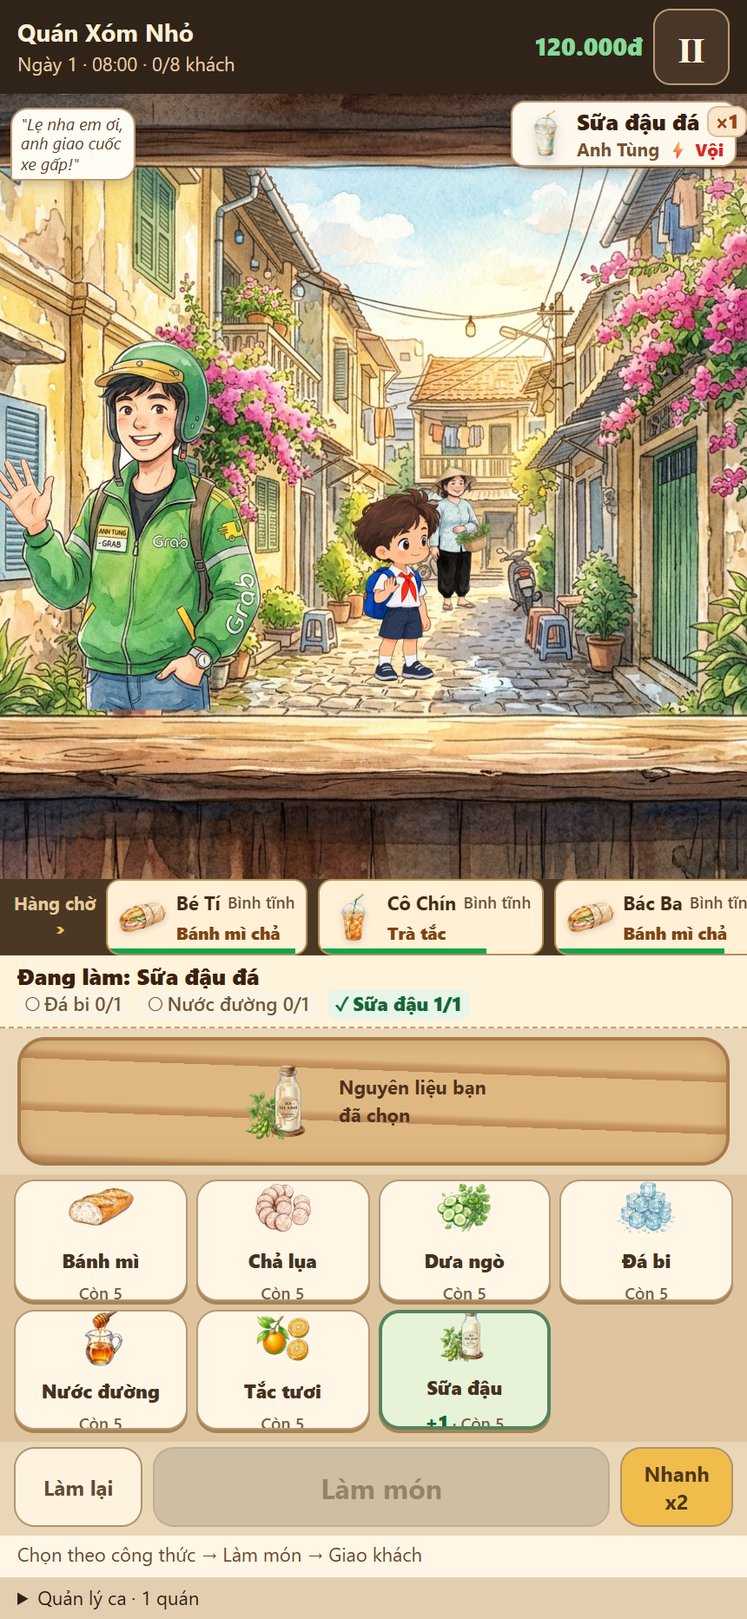
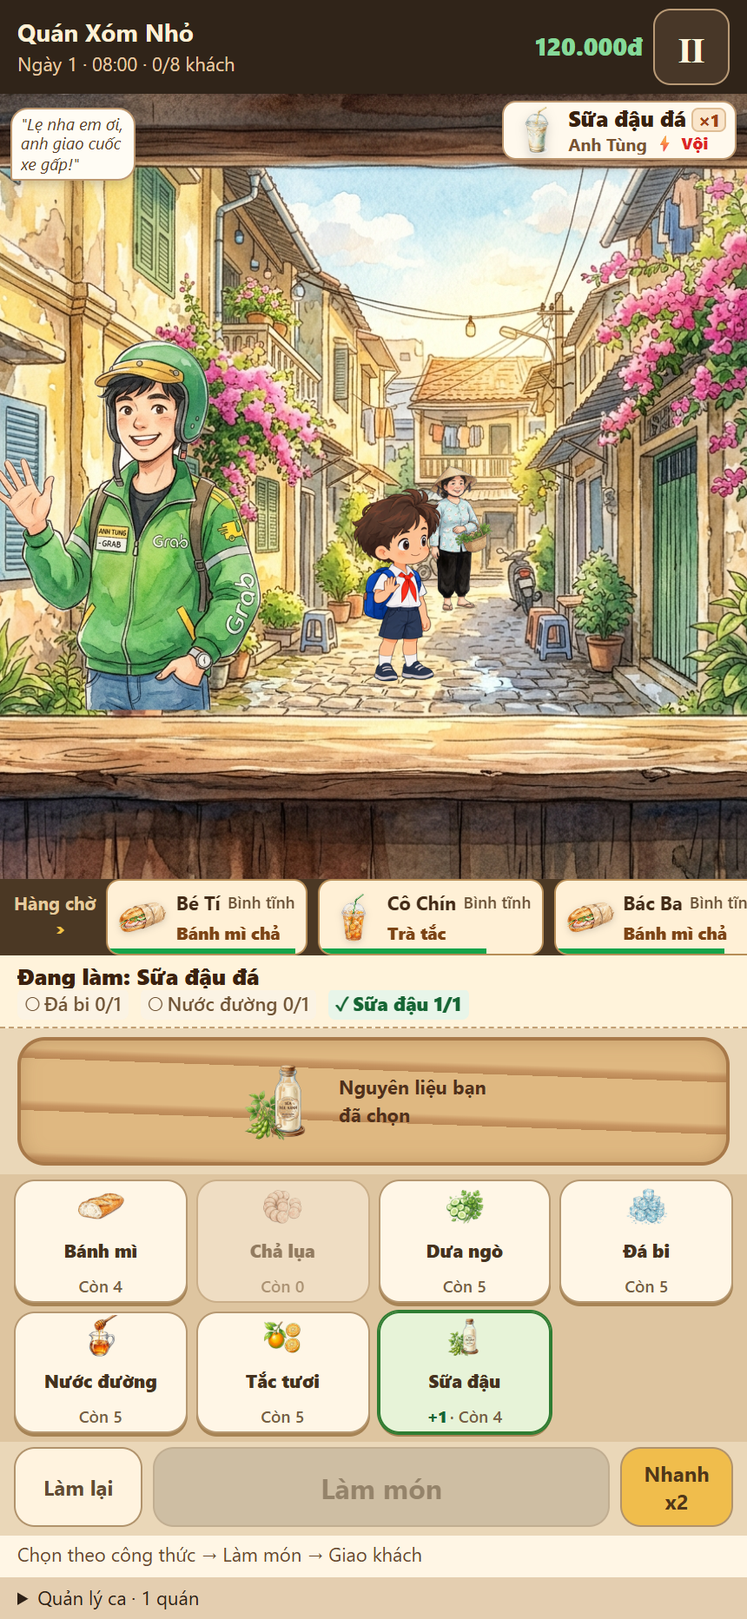
fix(mobile): elevate child counter standing, unclip stock line, wrap order ticket, and accurate handoff description

Changed region(s): [[0.0302, 0.7157, 0.7558, 0.9024], [0.6651, 0.0622, 1.0, 0.1245], [0.7558, 0.7157, 0.9674, 0.809]]

diff --git a/game/style.css b/game/style.css
@@ -2645,17 +2645,17 @@ button:focus-visible, [role=button]:focus-visible { outline: 3px solid #0e7490; 
 .play-stage { position:absolute; inset:0; width:100%; height:100%; pointer-events:none; }
 .customer-speech-bubble { position:absolute; z-index:25; left:6px; top:8px; max-width:72px; background:#fffcf4; border:1.5px solid #bd976e; border-radius:10px 10px 10px 2px; padding:3px 5px; font-size:9.5px; font-style:italic; color:#583d24; line-height:1.2; box-shadow:0 2px 6px rgba(36,26,25,0.22); pointer-events:none; }
 .customer-speech-bubble span { display:-webkit-box; -webkit-line-clamp:3; -webkit-box-orient:vertical; overflow:hidden; }
-.play-speech, .customer-order-callout { position:absolute; z-index:30; right:6px; top:4px; max-width:130px; background:#fff9ed; border:1.5px solid #bd976e; border-radius:8px; padding:2px 5px; box-shadow:0 3px 8px rgba(36,26,25,0.25); display:flex; align-items:center; gap:4px; }
+.play-speech, .customer-order-callout { position:absolute; z-index:30; right:6px; top:4px; max-width:138px; background:#fff9ed; border:1.5px solid #bd976e; border-radius:8px; padding:2px 5px; box-shadow:0 3px 8px rgba(36,26,25,0.25); display:flex; align-items:center; gap:4px; }
 .customer-order-callout.is-empty { padding:6px 10px; text-align:center; color:#795b3d; font-style:italic; font-size:11px; }
 .ticket-dish-img { width:28px; height:28px; object-fit:contain; flex-shrink:0; filter:drop-shadow(0 2px 3px rgba(0,0,0,0.18)); }
 .ticket-dish-meta { flex:1; min-width:0; display:flex; flex-direction:column; justify-content:center; gap:1px; }
-.ticket-dish-title-row { display:flex; align-items:center; gap:4px; }
-.ticket-dish-name { font-size:13px; font-weight:800; color:#38210f; line-height:1.15; white-space:nowrap; overflow:visible; }
-.ticket-qty-pill { font-size:11px; font-weight:800; color:#9c4115; background:#fae6cb; border:1px solid #dfbe96; border-radius:6px; padding:0 4px; flex-shrink:0; }
-.ticket-special-badge { display:inline-block; font-size:10px; font-weight:800; color:#b44921; background:#fdf2db; border:1px solid #eab366; border-radius:4px; padding:0 4px; white-space:nowrap; }
-.ticket-cust-sub { display:flex; align-items:center; gap:4px; font-size:10.5px; color:#785333; line-height:1.2; }
+.ticket-dish-title-row { display:flex; align-items:baseline; gap:3px; flex-wrap:wrap; }
+.ticket-dish-name { font-size:12.5px; font-weight:800; color:#38210f; line-height:1.15; white-space:normal; word-break:break-word; }
+.ticket-qty-pill { font-size:10px; font-weight:800; color:#9c4115; background:#fae6cb; border:1px solid #dfbe96; border-radius:4px; padding:0 3px; flex-shrink:0; line-height:1.2; }
+.ticket-special-badge { display:inline-block; font-size:9.5px; font-weight:800; color:#b44921; background:#fdf2db; border:1px solid #eab366; border-radius:4px; padding:0 3px; white-space:nowrap; }
+.ticket-cust-sub { display:flex; align-items:center; gap:4px; font-size:10px; color:#785333; line-height:1.2; }
 .ticket-cust-name { font-weight:700; white-space:nowrap; overflow:hidden; text-overflow:ellipsis; }
-.ticket-rush-tag { color:#dc2626; font-weight:800; font-size:10px; white-space:nowrap; }
+.ticket-rush-tag { color:#dc2626; font-weight:800; font-size:9.5px; white-space:nowrap; }
 .ticket-empty-row { font-size:11px; color:#83674b; font-style:italic; padding:2px 0; }
 .play-pause-overlay { position:absolute; inset:0; background:#30241990; z-index:50; color:#fff; display:grid; place-items:center; font-size:20px; font-weight:800; }
 .play-queue { position:relative; display:flex; align-items:center; gap:6px; background:#4b3824; padding:0 8px; overflow-x:auto; color:#f6e1b9; font-size:11px; scrollbar-width:thin; }
@@ -2683,8 +2683,8 @@ button:focus-visible, [role=button]:focus-visible { outline: 3px solid #0e7490; 
 .receipt-mark { font-style:normal; font-weight:900; font-size:11px; }
 .cooking-board {margin:5px 10px;position:relative;border:2px solid #a87949;border-radius:16px;background:repeating-linear-gradient(2deg,#ba8855 0px,#c79562 3px,#dfb881 6px,#dfb881 30px);box-shadow:inset 0 0 10px #70482340;display:flex;align-items:center;justify-content:center;gap:10px;overflow:hidden;color:#51301b;font-size:12px}
 .cooking-board>b{font-size:11px;max-width:100px}.selected-art{display:flex;align-items:center;justify-content:center;gap:2px;max-width:65%;height:63px}.selected-art img{width:50px;height:58px;object-fit:contain;animation:ingredientDrop .2s ease-out}.finished-dish{height:62px;width:100px;object-fit:contain;animation:ingredientDrop .25s ease-out}.is-cooking .selected-art {animation:cookSway .5s ease-in-out infinite alternate}.cook-progress{position:absolute;bottom:0;left:0;height:4px;width:100%;background:#f4d5a2}.cook-progress i{display:block;height:100%;background:#a65020}
-.ingredient-tray {display:grid;grid-template-columns:repeat(4,minmax(0,1fr));grid-template-rows:repeat(2,minmax(0,1fr));gap:5px;padding:3px 8px 7px;background:#dec5a0}
-.ingredient-button {padding:3px 2px;display:flex;flex-direction:column;align-items:center;justify-content:center;min-width:44px;min-height:44px;border:1px solid #b69871;border-radius:12px;background:#fff6e6;box-shadow:0 2px 0 #a78455;color:#45321f;overflow:hidden}.ingredient-button img{width:52px;height:36px;object-fit:contain;pointer-events:none}.ingredient-button b{font-size:11px;line-height:1.3}.ingredient-button small{font-size:9.5px;line-height:1.15;color:#765e43;display:block;max-width:100%;text-align:center}.ing-stock-line .ing-picked{color:#166534;font-weight:800}.ingredient-button.picked{border:2px solid #54845d;background:#e7f3d8}.ingredient-button:active{transform:translateY(2px)}.ingredient-button:disabled{opacity:.5;box-shadow:none}.egg-placeholder{height:36px;display:grid;place-items:center;font-size:12px}
+.ingredient-tray {display:grid;grid-template-columns:repeat(4,minmax(0,1fr));grid-template-rows:repeat(2,minmax(0,1fr));gap:5px;padding:3px 8px 5px;background:#dec5a0}
+.ingredient-button {padding:2px 2px;display:flex;flex-direction:column;align-items:center;justify-content:center;min-width:44px;min-height:44px;border:1.5px solid #b69871;border-radius:12px;background:#fff6e6;box-shadow:0 2px 0 #a78455;color:#45321f;overflow:hidden}.ingredient-button img{width:44px;height:25px;object-fit:contain;pointer-events:none}.ingredient-button b{font-size:10.5px;line-height:1.15;margin:1px 0}.ingredient-button small{font-size:9.5px;height:14px;min-height:14px;line-height:14px;color:#765e43;display:flex;align-items:center;justify-content:center;gap:2px;max-width:100%;text-align:center;white-space:nowrap}.ing-stock-line .ing-picked{color:#166534;font-weight:800;font-size:9.5px;line-height:14px}.ingredient-button.picked{border-color:#2e7d32;outline:1px solid #2e7d32;background:#e7f3d8}.ingredient-button:active{transform:translateY(2px)}.ingredient-button:disabled{opacity:.5;box-shadow:none}.egg-placeholder{height:25px;display:grid;place-items:center;font-size:11px}
 .cook-actions{display:flex;gap:6px;padding:3px 8px 5px;background:#ead7b8}.cook-actions button{border-radius:12px;border:1px solid #b1936c;font-weight:750;font-size:12px;min-width:54px;min-height:44px}.cook-main{flex:1;background:#b44921;color:white;font-size:16px!important;border-color:#7e2d17!important;box-shadow:0 3px 0 #772e19}.cook-main.ready{background:#2d8157;border-color:#1d5139!important;box-shadow:0 3px 0 #1d5139}.cook-main:disabled{background:#bfb098;border-color:#ab987d!important;color:#665640;box-shadow:none}.undo-button{background:#fff3df;color:#624b32}.boost-button{background:#f0bd4c;color:#513719;max-width:65px}.cook-actions button:disabled{opacity:.65}
 .play-status{font-size:11px;padding:3px 10px;background:#fff6e5;color:#68472c;white-space:nowrap;overflow:hidden;text-overflow:ellipsis}.play-options{font-size:11px;background:#e4ceb0;position:relative}.play-options summary{height:24px;padding:4px 10px;cursor:pointer}.play-options[open]>div{position:absolute;bottom:24px;right:0;left:0;background:#fff4de;z-index:90;padding:10px;box-shadow:0 -4px 18px #382b1740;display:grid;gap:8px}.play-options button{background:#f5e2c3;border:1px solid #b59770;border-radius:10px;min-height:44px}.play-options small{font-size:12px}
 .morning-dashboard,.end-day {padding:16px;max-width:100%}.morning-hero{height:145px;border-radius:20px;background:linear-gradient(0deg,#392811a0,#39281105),url('../assets/environment/alley_counter_clean.jpg') center 47%/cover;color:#fff3da;padding:20px;display:flex;flex-direction:column;justify-content:flex-end}.morning-hero h2{font-size:26px;margin:0}.morning-hero span{font-weight:750;text-shadow:0 2px 2px #333}.day-stats{display:grid;grid-template-columns:repeat(3,minmax(0,1fr));gap:6px;margin:12px 0}.day-stats>div{padding:12px 5px;border:1px solid #cfb792;border-radius:13px;background:#fff5e2;text-align:center}.day-stats b{font-size:18px;color:#694526;display:block;overflow-wrap:anywhere}.day-stats small{font-size:11px;color:#806a50;display:block}.forecast-card{padding:12px;background:#eee1c6;border-radius:13px;margin:12px 0}.forecast-card p{font-size:13px;margin:5px 0 0}.morning-help,.morning-details{font-size:13px;color:#74573c}.morning-details{margin-top:12px}.morning-details summary,.end-day summary{min-height:44px;padding:12px;background:#f0e1c7;border-radius:10px;cursor:pointer}.upgrade-grid{display:grid;grid-template-columns:1fr 1fr;gap:8px;margin-bottom:10px}.upgrade-grid button{min-height:100px;border:1px solid #cbb593;border-radius:14px;background:#fff4e0;padding:10px;text-align:left;color:#61442b}.upgrade-grid b,.upgrade-grid span,.upgrade-grid small{display:block}.upgrade-grid b{font-size:13px}.upgrade-grid span{font-size:12px;color:#a54c20;margin:4px 0}.upgrade-grid small{font-size:11px;line-height:1.3}.morning-dashboard .btn-secondary{margin:6px 0;min-height:44px;font-size:13px;padding:12px}.morning-dashboard h3,.end-day h3{font-size:15px;margin:15px 0 8px}.end-day h2{font-size:23px;margin:5px 0 12px}.end-day-badge{color:#98713c;font-size:13px;font-weight:800}.feedback-cards{display:grid;gap:8px}.feedback-cards>div{border-left:3px solid #b28750;padding:10px 12px;border-radius:8px;background:#fff4df}.feedback-cards b{font-size:13px;color:#79522e}.feedback-cards p{font-size:13px;margin:4px 0 0}.next-tip{font-size:13px;color:#7b5c37}.result-countdown{display:block;text-align:center;font-size:11px;margin:8px 0 15px}.compact-ledger{padding:10px;font-size:12px}.compact-ledger>div{display:flex;justify-content:space-between;gap:8px;border-bottom:1px dashed #d0b794;padding:6px 0}.compact-ledger p{font-size:12px}.compact-ledger h3{font-size:14px}
@@ -2692,7 +2692,7 @@ button:focus-visible, [role=button]:focus-visible { outline: 3px solid #0e7490; 
 .market-screen,.menu-screen{padding:10px 12px}.capacity-banner{padding:10px;margin-bottom:8px}.capacity-header{font-size:12px}.btn-bundle{padding:10px;font-size:13px}.btn-bundle small{font-size:10px;line-height:1.3}.market-list{display:grid;grid-template-columns:1fr 1fr;gap:7px}.market-item-card{display:flex;flex-wrap:wrap;padding:6px;gap:4px;border-radius:12px;min-width:0}.market-item-img{width:42px;height:36px;object-fit:contain}.market-item-info{flex:1;min-width:75px;gap:0}.market-item-info strong{font-size:12px}.market-item-info span{font-size:11px}.market-item-info small{display:none}.stepper{width:100%;justify-content:space-between;gap:2px}.step-btn{width:44px;height:44px}.market-checkout-dock{padding:8px 0;position:sticky;bottom:0;background:#fbf6ee}.checkout-summary{font-size:12px;margin-bottom:6px}.market-note{font-size:11px}.menu-intro{margin:0 0 8px}.menu-intro h3{font-size:15px;margin:0}.menu-intro p{font-size:12px;margin:3px 0}
 .menu-card{padding:10px 12px;margin:0 0 10px;border-radius:14px;background:#fffcf5;border:1.5px solid #d5be9b}.menu-card.locked-dish{background:#f6efe2;border-style:dashed}.menu-card-top{display:flex;align-items:center;gap:10px;margin-bottom:6px}.menu-dish-thumb{width:44px;height:44px;object-fit:contain;flex-shrink:0;filter:drop-shadow(0 2px 3px rgba(0,0,0,0.12))}.menu-dish-identity{flex:1;min-width:0}.menu-toggle{display:flex;align-items:center;gap:6px;min-height:32px;cursor:pointer}.menu-toggle input{width:20px;height:20px;margin:0;cursor:pointer;flex-shrink:0}.menu-toggle strong{font-size:14px;font-weight:800;color:#3b2210}.cost-estimate{display:block;font-size:11px;color:#765b3c;margin-top:1px}.menu-lock-condition{padding:6px 10px;background:#f0e4cf;border:1px solid #d0bc9b;border-radius:8px;font-size:11px;font-weight:600;color:#754f24;margin:4px 0 6px}.price-tiers-row{display:flex;align-items:center;justify-content:space-between;margin:6px 0;gap:6px}.price-tier-label{font-size:11px;font-weight:600;color:#583c22}.price-tier-buttons{display:flex;gap:6px}.price-tier-btn{min-width:44px;min-height:44px;padding:6px 12px;border:1.5px solid #bba17b;border-radius:10px;background:#f6ebd8;color:#4e341b;font-weight:700;font-size:13px}.price-tier-btn.selected{background:#b44921;color:#ffffff;border-color:#7e2d17}.menu-margin-preview{font-size:11px;color:#216d3f;font-weight:600;margin-top:4px}.price-demand-hint{font-size:11px;color:#b45309;margin-top:3px}.opening-time-section{padding:8px;margin-top:8px}.opening-time-section label{font-size:12px}.time-btn{min-height:44px;padding:6px;font-size:12px}.opening-note{font-size:11px;margin:6px 0}.menu-footer{padding:8px 0}.btn-primary{min-height:48px;font-size:15px;padding:12px;border-radius:14px}.cover-tag{font-size:11px}.cover-desc{font-size:14px}.top-nav{min-height:54px}
 @keyframes ingredientDrop{from{transform:translateY(-12px);opacity:0}to{transform:translateY(0);opacity:1}}@keyframes cookSway{from{transform:translateX(-3px)}to{transform:translateX(3px)}}@keyframes reactBounce{50%{transform:translateY(-5px)}}
-@media(max-height:640px){.play-screen{grid-template-rows:50px minmax(100px,1fr) 44px 40px 68px 142px 50px 20px 24px}.selected-art{height:50px}.selected-art img{height:45px;width:42px}.finished-dish{height:48px}.ingredient-button img{height:30px}.play-speech,.customer-order-callout{font-size:11px;max-height:44px;padding:2px 5px;max-width:130px}.ticket-dish-img{width:28px;height:28px}.ticket-dish-name{font-size:13px}.queue-ticket{min-height:44px;height:44px}.queue-dish-thumb{width:26px;height:26px}.queue-dish-name{font-size:10px;font-weight:800;text-overflow:clip}}
+@media(max-height:640px){.play-screen{grid-template-rows:50px minmax(100px,1fr) 44px 40px 68px 146px 50px 20px 24px}.selected-art{height:50px}.selected-art img{height:45px;width:42px}.finished-dish{height:48px}.ingredient-button img{height:23px}.play-speech,.customer-order-callout{font-size:11px;max-height:46px;padding:2px 5px;max-width:138px}.ticket-dish-img{width:26px;height:26px}.ticket-dish-name{font-size:12px}.queue-ticket{min-height:44px;height:44px}.queue-dish-thumb{width:26px;height:26px}.queue-dish-name{font-size:10px;font-weight:800;text-overflow:clip}}
 @media(prefers-reduced-motion:reduce){.selected-art img,.finished-dish,.is-cooking .selected-art,.play-customer.react{animation:none}}
 /* Town map and staffing overlay: provisional UI, no new generated art. */
 .empire-nav{display:flex;gap:8px;margin:10px 0}.empire-nav button{flex:1;min-height:44px;border:1px solid #b8986b;border-radius:12px;padding:8px;background:#eee0c8;color:#5b4129;font-weight:700;font-size:12px}.empire-backdrop{position:fixed;inset:0;background:#2c2419b8;z-index:220;display:flex;justify-content:center;align-items:center;padding:12px}.empire-panel{width:100%;max-width:460px;max-height:calc(100dvh - 24px);overflow:auto;border:2px solid #b6915c;border-radius:20px;background:#fcf3e0;padding:15px;box-shadow:0 10px 30px #201a1680}.empire-panel>header{display:flex;align-items:center;gap:8px;justify-content:space-between}.empire-panel h2{font-size:19px;margin:0}.empire-panel>header button{min-width:44px;min-height:44px;background:#ead8b8;border:1px solid #b3966b;border-radius:12px;font-size:24px}.panel-hint{font-size:12px;color:#77593a;margin:8px 0 12px}.town-map{display:grid;gap:12px;padding:12px;border-radius:18px;background:repeating-linear-gradient(0deg,#d5c9a5 0,#d5c9a5 35px,#e8ddbf 36px,#e8ddbf 42px)}.map-location{border:2px solid #b79c70;padding:12px;border-radius:16px;background:#fff6df;box-shadow:0 3px 0 #9b8965}.map-location.school{margin-left:18px}.map-location.office{margin-right:18px}.map-location.selected{border-color:#3c8051;background:#eaf3da}.map-location.locked{background:#e3dbc9;border-style:dashed}.map-location h3{font-size:16px;margin:4px 0}.map-location p{font-size:12px;margin:6px 0}.map-location small{display:block;font-size:11px;color:#715739}.map-location button{display:block;width:100%;min-height:44px;border:1px solid #a88b5f;border-radius:11px;background:#bc5a2e;color:#fff7e2;font-size:13px;font-weight:700;margin-top:8px}.map-location button:disabled{background:#b8a78b;color:#f5eddf}.map-metrics{display:flex;justify-content:space-between;gap:6px;font-size:12px}.staff-list{display:grid;gap:9px}.employee-card{border:1px solid #c1a77b;border-radius:14px;background:#fff9ed;padding:12px}.employee-card h3{font-size:14px;margin:0 0 7px}.employee-meters{display:flex;gap:8px;flex-wrap:wrap;font-size:11px;color:#7a5836}.employee-card small{font-size:11px}.employee-actions{display:flex;flex-wrap:wrap;gap:6px;margin-top:8px}.employee-actions button{min-height:44px;flex:1;min-width:100px;border:1px solid #b69a70;border-radius:9px;background:#f2dfbb;font-size:11px;color:#533a23}.employee-actions .release-staff{background:#f4ddd1;color:#8d3c27}.hire-grid{display:grid;grid-template-columns:1fr;gap:10px}.staff-role-card{border:1px solid #c8af88;border-radius:14px;background:#fffcf5;padding:12px;box-shadow:0 2px 5px rgba(0,0,0,0.05);display:flex;flex-direction:column;gap:5px}.staff-role-card.role-locked{background:#f5eedf;border-style:dashed}.role-card-header{display:flex;justify-content:space-between;align-items:center}.role-card-header h4{margin:0;font-size:15px;font-weight:800;color:#3b2210}.role-wage{font-size:12px;font-weight:700;color:#b44921;background:#faebd7;padding:2px 7px;border-radius:6px}.role-perk{margin:0;font-size:12px;color:#583d23;line-height:1.35}.role-status-row{font-size:11px}.role-tag.hired{color:#166534;font-weight:700}.role-tag.locked{color:#854d0e;font-weight:600}.role-tag.available{color:#1e40af;font-weight:600}.btn-hire{width:100%;min-height:44px;min-width:44px;border:1.5px solid #a8885b;border-radius:10px;background:#bc5a2e;color:#fff7e2;font-size:13px;font-weight:800;cursor:pointer;margin-top:2px}.btn-hire:disabled{background:#d3c4ad;color:#705d47;border-color:#bea98e;cursor:not-allowed;opacity:0.85}.branch-results{display:grid;gap:12px;margin-bottom:15px}.branch-results article{border:1px solid #cdb58a;border-radius:15px;background:#fff5df;padding:12px}.branch-results header{display:flex;justify-content:space-between;align-items:center}.branch-results h3{font-size:16px;margin:0 0 8px}.branch-results small,.branch-results p{font-size:12px}.branch-results h4{font-size:13px;margin:10px 0 5px}.branch-results summary{font-size:12px}

diff --git a/tools/playtest/verify_section9_readability.py b/tools/playtest/verify_section9_readability.py
@@ -343,14 +343,14 @@ async def main():
         print("Captured Scene 6 (Staff) ->", shot6_path)
 
         # -------------------------------------------------------------
-        # FIXTURE 7: VIEWPORT NHỎ 360x640 - 3 KHÁCH, KHÔNG CHE KHUẤT, ĐỦ TÊN
+        # FIXTURE 7: VIEWPORT NHỎ 360x640 - 3 KHÁCH, KHÔNG CHE KHUẤT, ĐỦ TÊN, Ô ĐÃ CHỌN (+1 · Còn 4)
         # -------------------------------------------------------------
         # Close staff panel and return to SHOP screen
         await page.evaluate("""() => {
             const s = window.__xomNho.getState();
             s.empire.staffOpen = false;
             s.screen = 'SHOP';
-            s.stock = { bread: 5, cha: 5, vegetable: 5, ice: 5, sugar_syrup: 5, kumquat: 5, soy_milk: 5 };
+            s.stock = { bread: 4, cha: 0, vegetable: 5, ice: 5, sugar_syrup: 5, kumquat: 5, soy_milk: 4 };
             s.activeCustomer = {
                 id: 'anh_tung',
                 name: 'Anh Tùng',
@@ -358,6 +358,15 @@ async def main():
                 status: 'ARRIVED',
                 temperament: 'RUSH',
                 dialogue: 'Lẹ nha em ơi, anh giao cuốc xe gấp!'
+            };
+            s.service = {
+                version: 2,
+                customerId: 'anh_tung',
+                recipeId: 'SUA_DAU_DA',
+                selected: { soy_milk: 1 },
+                phase: 'SELECT',
+                elapsedMs: 0,
+                prepMs: 2000
             };
             s.waitingQueue = [
                 { id: 'be_ti', name: 'Bé Tí', recipe: 'BANH_MI_CHA', temperament: 'NORMAL', patience: 95, maxPatience: 100 },
@@ -439,6 +448,48 @@ async def main():
         test_results["stock_lines_readable_all_slots"] = occlusion_check.get("stockLinesReadable", False)
         test_results["no_horizontal_overflow_360"] = not (await page.evaluate("() => document.documentElement.scrollWidth > window.innerWidth"))
 
+        # Programmatic stock line clipping verification across all buttons (normal, picked, disabled)
+        stock_clipping_check = await page.evaluate("""() => {
+            const buttons = [...document.querySelectorAll('.ingredient-button')];
+            return buttons.map(btn => {
+                const bRect = btn.getBoundingClientRect();
+                const stock = btn.querySelector('.ing-stock-line');
+                const sRect = stock ? stock.getBoundingClientRect() : null;
+                return {
+                    id: btn.getAttribute('data-payload'),
+                    classes: btn.className,
+                    disabled: btn.disabled,
+                    btnBottom: bRect.bottom,
+                    stockBottom: sRect ? sRect.bottom : 0,
+                    stockH: sRect ? sRect.height : 0,
+                    isClipped: sRect ? (sRect.bottom > bRect.bottom + 0.1) : false
+                };
+            });
+        }""")
+        test_results["stock_clipping_check"] = stock_clipping_check
+        test_results["stock_lines_unclipped"] = all(not b["isClipped"] for b in stock_clipping_check)
+
+        # Programmatic ticket callout check: dish name and qty x1 fully in callout & in viewport
+        ticket_viewport_check = await page.evaluate("""() => {
+            const ticket = document.querySelector('.customer-order-callout');
+            const name = ticket ? ticket.querySelector('.ticket-dish-name') : null;
+            const qty = ticket ? ticket.querySelector('.ticket-qty-pill') : null;
+            if (!ticket || !name || !qty) return { valid: false };
+            const tRect = ticket.getBoundingClientRect();
+            const nRect = name.getBoundingClientRect();
+            const qRect = qty.getBoundingClientRect();
+            return {
+                valid: true,
+                ticketRight: tRect.right,
+                dishNameRight: nRect.right,
+                qtyRight: qRect.right,
+                dishNameFits: nRect.right <= tRect.right + 1,
+                qtyFits: qRect.right <= tRect.right + 1,
+                ticketInViewport: tRect.right <= 360.0
+            };
+        }""")
+        test_results["ticket_viewport_check"] = ticket_viewport_check
+
         # Verify empty dialogue hides speech bubble
         empty_bubble_hidden = await page.evaluate("""() => {
             const s = window.__xomNho.getState();
@@ -457,8 +508,8 @@ async def main():
         await page.screenshot(path=str(shot_360_path))
         test_results["fixtures"]["shot_07"] = {
             "file": "shot_07_viewport_360x640.png",
-            "label": "Bằng chứng 1/3: Viewport nhỏ 360×640 - Anh Tùng quầy, Bé Tí & Cô Chín hẻm, không che khuất, đầu nguyên vẹn",
-            "description": f"Màn nhỏ 360×640 với Anh Tùng tại quầy (đầu cách mép trên {occlusion_check['customerHeadMarginTop']:.1f}px, không bị crop; thoại ở góc trái không che mặt), Bé Tí và Cô Chín đứng trên mặt đường đá hẻm (không đạp lên chậu cây hay ghế), phiếu gọi món ở góc phải không chạm khách chờ. Hàng chờ đủ tên không cắt."
+            "label": "Bằng chứng 2/2: Viewport nhỏ 360×640 với ô nguyên liệu đã chọn (Sữa đậu: +1 · Còn 4 nguyên vẹn)",
+            "description": f"Màn nhỏ 360×640 với Anh Tùng tại quầy (đầu cách mép trên {occlusion_check['customerHeadMarginTop']:.1f}px không bị crop; thoại ở góc trái không che mặt), Bé Tí và Cô Chín đứng trên mặt đường đá hẻm (không đạp lên chậu cây hay ghế), phiếu gọi món Sữa đậu đá ×1 trọn vẹn trong viewport (dishNameFits={ticket_viewport_check['dishNameFits']}, qtyFits={ticket_viewport_check['qtyFits']}, ticketInViewport={ticket_viewport_check['ticketInViewport']}). Ô nguyên liệu Sữa đậu đã chọn hiển thị '+1 · Còn 4' nguyên vẹn không bị cắt dòng, Chả lụa disabled 'Còn 0' không bị cắt dòng; 100% ô không bị clip (stock_lines_unclipped={test_results['stock_lines_unclipped']})."
         }
         print("Captured 360x640 Viewport ->", shot_360_path)
 
@@ -614,7 +665,7 @@ async def main():
         test_results["real_manual_order"]["step3_served"] = {
             "file": "shot_order_step3_served.png",
             "action": "Giao khách nhận tiền (SERVE / REACTION)",
-            "description": "Món ăn xuất hiện trên khay gờ quầy, khách giơ tay nhận món với lời cảm ơn, tiền két tăng +25.000đ."
+            "description": "Bánh mì bọc giấy đặt trên gờ quầy, Bé Tí tươi cười phản ứng cảm ơn quán, tiền két tăng +25.000đ (thể hiện bánh đặt trên quầy và khách phản ứng, không báo tay nhận món khi ảnh chưa thể hiện)."
         }
         print("Captured Real Step 3 ->", shot_order_3)
 
@@ -662,20 +713,15 @@ async def main():
         total_buttons = len(detailed_buttons)
 
         test_results["deliverable_screenshots"] = {
-            "shot_07_viewport_360x640": {
-                "file": "shot_07_viewport_360x640.png",
-                "viewport": "360x640",
-                "role": "Bằng chứng 1/3: Cảnh quán màn nhỏ (Anh Tùng quầy, Bé Tí & Cô Chín hẻm)"
-            },
-            "shot_08_viewport_430x932": {
-                "file": "shot_08_viewport_430x932.png",
-                "viewport": "430x932",
-                "role": "Bằng chứng 2/3: Cùng cảnh trên màn lớn 430x932"
-            },
             "shot_order_step3_served": {
                 "file": "shot_order_step3_served.png",
                 "viewport": "390x844",
-                "role": "Bằng chứng 3/3: Khoảnh khắc giao món trên khay gờ quầy"
+                "role": "Bằng chứng 1/2: Bé Tí nhận bánh mì (bánh mì đặt trên gờ quầy, Bé Tí thấy rõ đầu–vai–tay, tươi cười cảm ơn quán; tỷ lệ trẻ em chuẩn chibi)"
+            },
+            "shot_07_viewport_360x640": {
+                "file": "shot_07_viewport_360x640.png",
+                "viewport": "360x640",
+                "role": "Bằng chứng 2/2: Màn nhỏ 360×640 có ô nguyên liệu đã chọn (Sữa đậu: +1 · Còn 4 nguyên vẹn không bị cắt dòng, Chả lụa disabled Còn 0; phiếu Sữa đậu đá ×1 trọn vẹn trong viewport)"
             }
         }
 
@@ -683,6 +729,10 @@ async def main():
             "measured_programmatically": [
                 f"Kích thước touch target tất cả {total_buttons} nút đo thật: Khay nguyên liệu ({ing_count}/{ing_count}), Thao tác bếp ({cook_count}/{cook_count}), Điều khiển ca ({pause_count}/{pause_count}), Hàng chờ ({queue_count}/{queue_count}) đều >= 44x44px và reachable (document.elementFromPoint)",
                 "Toàn cảnh không che khuất trên 360x640: đầu Anh Tùng không bị crop (margin top >= 5px), bóng thoại bên trái shutter không đè mặt, phiếu góc phải không đè Bé Tí và Cô Chín",
+                "Phiếu gọi món chứa trọn tên món và ×1 trong viewport 360x640, flex-wrap cho phép chữ xuống dòng nếu thiếu chỗ",
+                "Ô nguyên liệu dành chiều cao cố định (14px) cho số tồn; 100% ô không bị clip dọc kể cả trạng thái thường, đã chọn (+1 · Còn 4) và disabled (Còn 0)",
+                "Bé Tí tại quầy được hiệu chỉnh vị trí bục đứng gy=840, hiển thị rõ đầu–vai–tay trên gờ quầy và giữ chuẩn tỷ lệ trẻ em chibi",
+                "Món ăn đặt trên gờ quầy lúc giao khách, khách tươi cười phản ứng cảm ơn quán (không báo sai 'tay nhận món' khi sprite chưa có pose cầm)",
                 "Ẩn thoại khi chuỗi rỗng dialogue == '' (zero phantom empty bubble)",
                 "Dòng tồn kho (Còn n) đọc được đầy đủ trong mọi ô, không bị cắt dấu ba chấm",
                 "Không có tràn ngang scrollWidth <= window.innerWidth trên 360px, 390px, 430px",
@@ -690,9 +740,8 @@ async def main():
                 "Không có lỗi console (0 error) và không có ảnh bị lỗi tải 404 (0 broken images)"
             ],
             "visually_reviewed_by_eye": [
-                "Bằng chứng 1/3: shot_07_viewport_360x640.png (Anh Tùng quầy, Bé Tí & Cô Chín hẻm)",
-                "Bằng chứng 2/3: shot_08_viewport_430x932.png (Cùng cảnh trên màn hình lớn 430x932)",
-                "Bằng chứng 3/3: shot_order_step3_served.png (Lúc giao món: ly/bánh mì nằm trên khay gờ quầy)",
+                "Bằng chứng 1/2: shot_order_step3_served.png (Bé Tí nhận bánh mì: bánh mì bọc giấy đặt trên gờ quầy, Bé Tí nổi rõ đầu–vai–tay tươi cười phản ứng cảm ơn quán)",
+                "Bằng chứng 2/2: shot_07_viewport_360x640.png (Màn nhỏ 360×640: Anh Tùng quầy, Bé Tí & Cô Chín hẻm; ô Sữa đậu đã chọn hiển thị rõ '+1 · Còn 4' không bị cắt dòng, Chả lụa disabled Còn 0; phiếu Sữa đậu đá ×1 trọn vẹn)",
                 "Đồng nhất nét vẽ, tỷ lệ đầu thân và màu nước chibi của các nhân vật",
                 "Điểm tiếp đất của chân bám đúng mặt đường đá hẻm, loại bỏ hoàn toàn vùng chậu cây và ghế"
             ]
